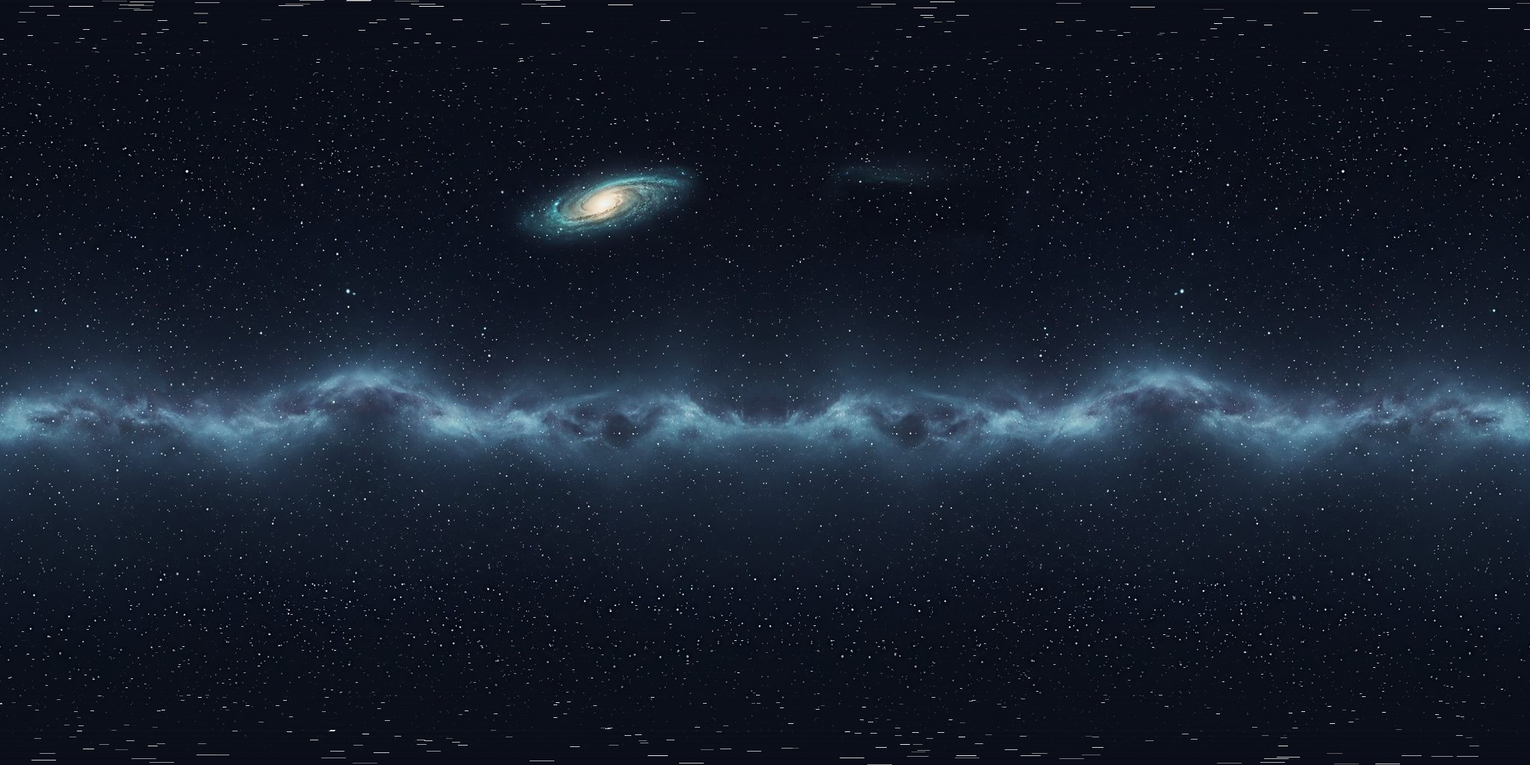
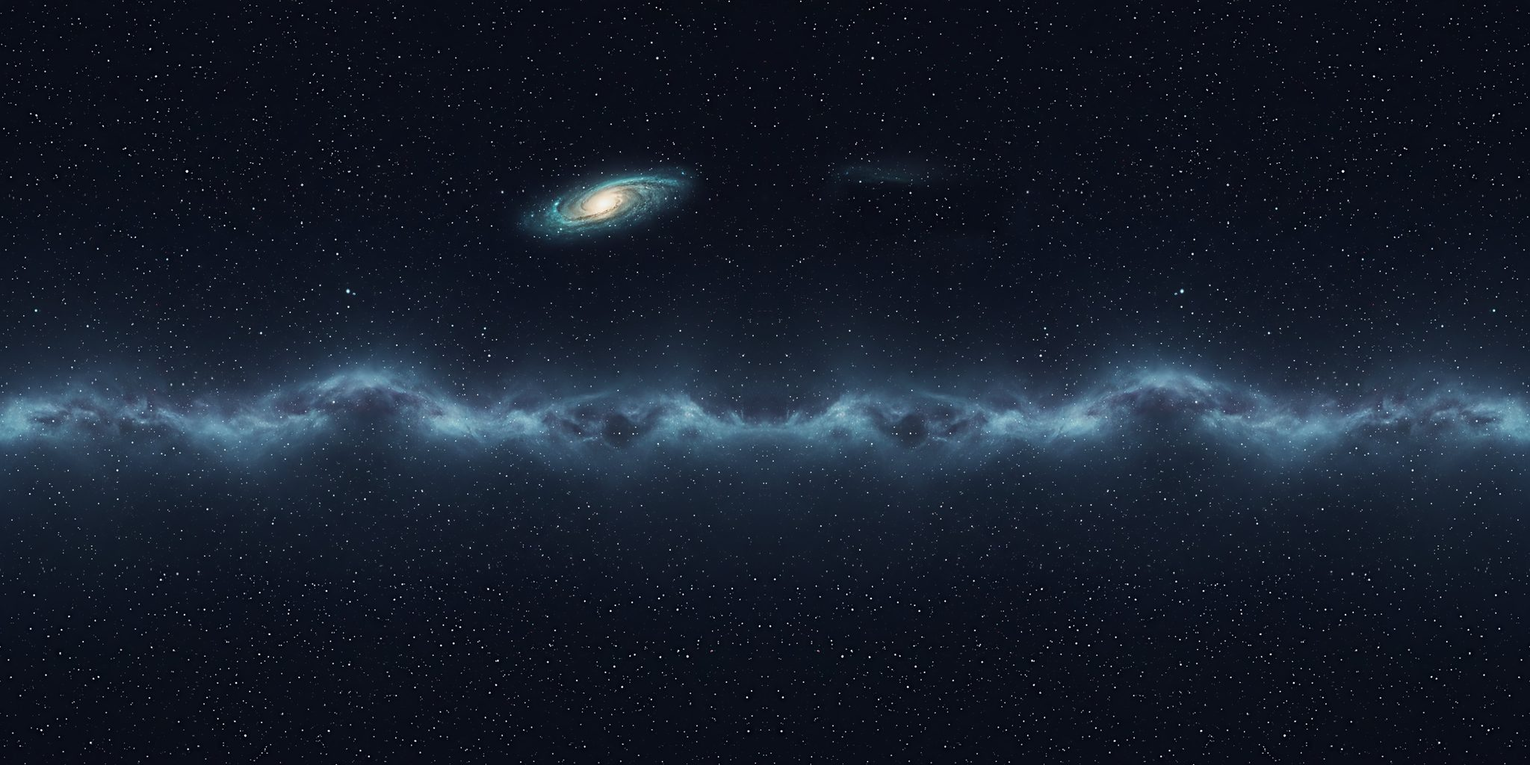
Integrate Codex PR #9: laser impacts, flight-log wording, clean skybox
- Codex's real 33-line change, three-way merged (base e914f48):
  localized laser-hit flare/spark at the impact point
  (novaVfxLaserImpact) instead of a whole-hull flash, plus reworded
  campaign objectives and flight-log headings.
- Its push had converted all three game files to CRLF (~36k changed
  lines), so only the real lines were taken, with LF endings.
- .gitattributes: LF for text files (CRLF for .bat/.cmd/.ps1), binary
  for assets, so a Windows editor can't rewrite whole files again.
  manifest.json, play_on_quest.bat and serve.ps1 were renormalized
  (line endings only).
- sky.jpg: replaced with the clean art/sky_v014_backup.jpg Codex found;
  the old one had streak artifacts at the poles.

Tested: node --check on the module; headless Chromium serving the repo
root and public/ loads every texture with no 404s or errors.

Claude-Session: https://claude.ai/code/session_01Rs5n8yXML6Z8zooWasvHTA

diff --git a/index.html b/index.html
@@ -8902,23 +8902,23 @@ const GAME_VERSION = 'Alpha 1.2';
     // ── CAMPAIGN & STORY: "The Corsair Line" ──
     // ════════════════════════════════════════════════════════════════
     const CAMPAIGN = [
-      { title: 'CH 1: FIRST LIGHT', mission: 1, objective: 'Mine 5 tons of titanium ore.', hint: 'Fire lasers at the gray asteroids around you.',
+      { title: 'CH 1: FIRST LIGHT', mission: 1, objective: 'Prospect the local field: bring in 5 t of titanium.', hint: 'The gray asteroids read titanium-rich. Open fire to sample the field.',
         type: 'mine', goal: 5, reward: 1500, speaker: 'STATION NOVA-1', pitch: 0.95,
         intro: 'Welcome to Nova-1, pilot. Every fighter here earns its fuel. Mine five tons of titanium from the field.',
         outro: 'Ore received. Not bad for a rookie. Stand by for convoy duty.' },
-      { title: 'CH 2: IRON CONVOY', mission: 0, objective: 'Fly escort within 300 m of Starlifter-7 for 45 seconds.', hint: 'Follow the freighter marker on the canopy compass.',
+      { title: 'CH 2: IRON CONVOY', mission: 0, objective: 'Hold within 300 m of Starlifter-7 for 45 seconds.', hint: 'Keep the freighter on your canopy compass and stay close.',
         type: 'escort', goal: 45, reward: 2500, speaker: 'STARLIFTER-7', pitch: 0.9,
         intro: 'Nova Lead, this is Bo Harlan on Starlifter-7. Somebody has been shadowing my route. Could use an escort.',
         outro: 'Convoy clear. Thanks, Nova. But my scanners caught a pirate transponder. Talk to Valkyrie.' },
-      { title: 'CH 3: SHADOW SIGNAL', mission: 0, objective: 'Dock at Station Nova-1 to debrief.', hint: 'Fly close to the station and press DOCK on comms, or engage autopilot.',
+      { title: 'CH 3: SHADOW SIGNAL', mission: 0, objective: 'Return to Nova-1 and dock for the transponder debrief.', hint: 'Request docking clearance on comms, or engage autopilot near the station.',
         type: 'dock', goal: 1, reward: 1000, speaker: 'VALKYRIE-7', pitch: 1.15,
         intro: 'That transponder belongs to the Corsair, Nova. We need a full briefing. Head to Nova-1 and dock.',
         outro: 'Intel confirmed: the Corsair raids ships that exit lightspeed. Next time you jump, be ready.' },
-      { title: 'CH 4: THE CORSAIR LINE', mission: 2, objective: 'Make a lightspeed jump and destroy the Corsair raider.', hint: 'Press WARP, pick a destination, then press NEXT TARGET until the red contact is locked.',
+      { title: 'CH 4: THE CORSAIR LINE', mission: 2, objective: 'Jump the lane. Find and destroy the Corsair raider.', hint: 'Plot a WARP destination, then cycle contacts until the hostile is locked.',
         type: 'pirate', goal: 1, reward: 8000, speaker: 'FLEET RELAY', pitch: 1.3,
         intro: 'ADA-9 here. Corsair ambush probability after your next lightspeed exit: 100 percent. Arm missiles.',
         outro: 'Corsair destroyed. The shipping lanes are open again. Well flown, Nova Lead.' },
-      { title: 'EPILOGUE: OPEN SKIES', mission: 1, objective: 'Free flight. Mine, trade, explore and chat with your crew.', hint: 'Pirates are rare now, but stay sharp after jumps.',
+      { title: 'EPILOGUE: OPEN SKIES', mission: 1, objective: 'Open flight: mine, trade, explore, and fly with your crew.', hint: 'The lanes are quieter. Keep a watch after every jump.',
         type: 'free', goal: 0, reward: 0, speaker: 'VALKYRIE-7', pitch: 1.15,
         intro: 'The sector is ours, Nova. Drinks at the cantina are on me.', outro: '' }
     ];
@@ -9878,11 +9878,11 @@ const GAME_VERSION = 'Alpha 1.2';
       g.fillStyle = '#ffcc00'; g.font = 'bold 26px monospace'; g.fillText(`LEVEL ${L}  \u00B7  XP ${novaXP}/${nx}`, 560, 46);
       g.fillStyle = '#cfefff'; g.font = '22px monospace';
       g.fillText(`${novaPilot.name} \u00B7 ${novaRank()} \u00B7 ${novaShipDef().short} \u00B7 ${bankCredits} CR \u00B7 KILLS ${novaPilot.kills} \u00B7 ORE ${novaPilot.ore}t \u00B7 MISSILES ${missileAmmo}/${novaMslCap()}`.slice(0, 84), 28, 80);
-      g.fillStyle = '#ff88cc'; g.font = 'bold 22px monospace'; g.fillText('FRIENDS \u2665', 28, 116);
+      g.fillStyle = '#ff88cc'; g.font = 'bold 22px monospace'; g.fillText('CREW & CONTACTS', 28, 116);
       const bar = (x, y, v, col) => { g.fillStyle = '#1a2a3a'; g.fillRect(x, y - 14, 180, 14); g.fillStyle = col; g.fillRect(x, y - 14, 1.8 * v, 14); };
       Object.keys(novaAff).forEach((k, i) => { const y = 142 + i * 26; g.fillStyle = '#cfefff'; g.font = '20px monospace'; g.fillText(`${NOVA_AFF_NAMES[k]}`.slice(0, 16), 28, y); bar(240, y, novaAff[k], '#ff88cc'); g.fillText(String(novaAff[k]), 430, y); });
       { const y = 142 + 5 * 26; g.fillStyle = '#ff6666'; g.font = '20px monospace'; g.fillText('PIRATE STANDING', 28, y); bar(240, y, novaPirRep, '#ff3344'); g.fillText(String(novaPirRep), 430, y); }
-      g.fillStyle = '#ffcc00'; g.font = 'bold 22px monospace'; g.fillText('STORY \u00B7 THE CORSAIR LINE', 500, 116);
+      g.fillStyle = '#ffcc00'; g.font = 'bold 22px monospace'; g.fillText('FLIGHT RECORD \u00B7 CORSAIR LINE', 500, 116);
       g.font = '20px monospace';
       CAMPAIGN.forEach((ch, i) => {
         const done = i < campaignChapter, cur = i === campaignChapter;
@@ -9895,7 +9895,7 @@ const GAME_VERSION = 'Alpha 1.2';
       if (cur) { g.fillText(`OBJECTIVE: ${cur.objective}`.slice(0, 92), 28, 318); g.fillText(`HINT: ${cur.hint}`.slice(0, 92), 28, 344); }
       g.fillStyle = '#ffaa00'; g.font = 'bold 22px monospace'; g.fillText('CONTRACT', 28, 384);
       g.font = '20px monospace'; g.fillStyle = '#ffe0a0';
-      g.fillText(novaContract ? `${novaContract.title} \u00B7 ${Math.floor(novaContract.prog)}/${novaContract.goal} \u00B7 pays ${novaContract.pay} CR` : 'None. Pick one from the cantina CONTRACT BOARD or accept a comms offer.', 160, 384);
+       g.fillText(novaContract ? `${novaContract.title} \u00B7 ${Math.floor(novaContract.prog)}/${novaContract.goal} \u00B7 pays ${novaContract.pay} CR` : 'No active contract. Check the cantina board or await a comms offer.', 160, 384);
       if (novaMayday) { g.fillStyle = '#ff3344'; g.fillText(`MAYDAY: reach Starlifter-7 in ${Math.ceil(novaMayday.t)} s`, 160, 410); }
       g.fillStyle = '#ffee88'; g.font = 'bold 22px monospace'; g.fillText('CODE OF THE NOVA', 28, 446);
       g.font = '20px monospace';
@@ -18207,6 +18207,18 @@ const GAME_VERSION = 'Alpha 1.2';
       };
     }
 
+    // Small surface flash for a laser strike; the shield shell below remains the broader hit cue.
+    function novaVfxLaserImpact(u, col, shielded) {
+      if (!u || !u.g) return;
+      const r = Math.max(3, u.r || 5);
+      const phase = (NF.t || 0) * 17.13 + (u.hp || 0) * 0.37;
+      const normal = new THREE.Vector3(Math.sin(phase), Math.cos(phase * 1.31), Math.sin(phase * 0.73 + 1.7)).normalize();
+      const point = u.g.position.clone().addScaledVector(normal, r * 0.94);
+      const size = Math.min(6, r * (shielded ? 0.42 : 0.62));
+      novaVfxFlare(point, col, size, 0.16);
+      novaVfxArc(point, col, size * 1.35, 0.13);
+    }
+
     // Upgrade shield hit ripple on faction ships & player cockpit shield dome
     {
       const _origNfHit = nfHit;
@@ -18214,6 +18226,7 @@ const GAME_VERSION = 'Alpha 1.2';
         if (u && u.alive && u.g) {
           const hadShield = u.sh > 0;
           const col = u.fac === 'alien' ? 0x66ffcc : (u.fac === 'pirate' ? 0xffaa33 : 0x55aaff);
+          novaVfxLaserImpact(u, byPlayer ? 0x00e5ff : col, hadShield);
           if (hadShield && NOVA_VFX.tex.shield) {
             const shMat = new THREE.MeshBasicMaterial({
               map: NOVA_VFX.tex.shield,
@@ -18241,9 +18254,7 @@ const GAME_VERSION = 'Alpha 1.2';
                 shMat.opacity = 0.85 * (1 - k);
               }
             });
-          } else {
-            novaVfxFlare(u.g.position, 0xff8833, Math.max(4, (u.r || 5) * 0.9), 0.24);
-          }
+          } else { /* the localized laser impact above replaces the broad hull flash */ }
           _origNfHit.apply(this, arguments);
           if (hadShield && u.sh <= 0 && u.alive) {
             novaVfxArc(u.g.position, col, Math.max(7, (u.r || 6) * 1.6), 0.45);

diff --git a/public/standalone.html b/public/standalone.html
@@ -8911,23 +8911,23 @@ const GAME_VERSION = 'Alpha 1.2';
     // ── CAMPAIGN & STORY: "The Corsair Line" ──
     // ════════════════════════════════════════════════════════════════
     const CAMPAIGN = [
-      { title: 'CH 1: FIRST LIGHT', mission: 1, objective: 'Mine 5 tons of titanium ore.', hint: 'Fire lasers at the gray asteroids around you.',
+      { title: 'CH 1: FIRST LIGHT', mission: 1, objective: 'Prospect the local field: bring in 5 t of titanium.', hint: 'The gray asteroids read titanium-rich. Open fire to sample the field.',
         type: 'mine', goal: 5, reward: 1500, speaker: 'STATION NOVA-1', pitch: 0.95,
         intro: 'Welcome to Nova-1, pilot. Every fighter here earns its fuel. Mine five tons of titanium from the field.',
         outro: 'Ore received. Not bad for a rookie. Stand by for convoy duty.' },
-      { title: 'CH 2: IRON CONVOY', mission: 0, objective: 'Fly escort within 300 m of Starlifter-7 for 45 seconds.', hint: 'Follow the freighter marker on the canopy compass.',
+      { title: 'CH 2: IRON CONVOY', mission: 0, objective: 'Hold within 300 m of Starlifter-7 for 45 seconds.', hint: 'Keep the freighter on your canopy compass and stay close.',
         type: 'escort', goal: 45, reward: 2500, speaker: 'STARLIFTER-7', pitch: 0.9,
         intro: 'Nova Lead, this is Bo Harlan on Starlifter-7. Somebody has been shadowing my route. Could use an escort.',
         outro: 'Convoy clear. Thanks, Nova. But my scanners caught a pirate transponder. Talk to Valkyrie.' },
-      { title: 'CH 3: SHADOW SIGNAL', mission: 0, objective: 'Dock at Station Nova-1 to debrief.', hint: 'Fly close to the station and press DOCK on comms, or engage autopilot.',
+      { title: 'CH 3: SHADOW SIGNAL', mission: 0, objective: 'Return to Nova-1 and dock for the transponder debrief.', hint: 'Request docking clearance on comms, or engage autopilot near the station.',
         type: 'dock', goal: 1, reward: 1000, speaker: 'VALKYRIE-7', pitch: 1.15,
         intro: 'That transponder belongs to the Corsair, Nova. We need a full briefing. Head to Nova-1 and dock.',
         outro: 'Intel confirmed: the Corsair raids ships that exit lightspeed. Next time you jump, be ready.' },
-      { title: 'CH 4: THE CORSAIR LINE', mission: 2, objective: 'Make a lightspeed jump and destroy the Corsair raider.', hint: 'Press WARP, pick a destination, then press NEXT TARGET until the red contact is locked.',
+      { title: 'CH 4: THE CORSAIR LINE', mission: 2, objective: 'Jump the lane. Find and destroy the Corsair raider.', hint: 'Plot a WARP destination, then cycle contacts until the hostile is locked.',
         type: 'pirate', goal: 1, reward: 8000, speaker: 'FLEET RELAY', pitch: 1.3,
         intro: 'ADA-9 here. Corsair ambush probability after your next lightspeed exit: 100 percent. Arm missiles.',
         outro: 'Corsair destroyed. The shipping lanes are open again. Well flown, Nova Lead.' },
-      { title: 'EPILOGUE: OPEN SKIES', mission: 1, objective: 'Free flight. Mine, trade, explore and chat with your crew.', hint: 'Pirates are rare now, but stay sharp after jumps.',
+      { title: 'EPILOGUE: OPEN SKIES', mission: 1, objective: 'Open flight: mine, trade, explore, and fly with your crew.', hint: 'The lanes are quieter. Keep a watch after every jump.',
         type: 'free', goal: 0, reward: 0, speaker: 'VALKYRIE-7', pitch: 1.15,
         intro: 'The sector is ours, Nova. Drinks at the cantina are on me.', outro: '' }
     ];
@@ -9887,11 +9887,11 @@ const GAME_VERSION = 'Alpha 1.2';
       g.fillStyle = '#ffcc00'; g.font = 'bold 26px monospace'; g.fillText(`LEVEL ${L}  \u00B7  XP ${novaXP}/${nx}`, 560, 46);
       g.fillStyle = '#cfefff'; g.font = '22px monospace';
       g.fillText(`${novaPilot.name} \u00B7 ${novaRank()} \u00B7 ${novaShipDef().short} \u00B7 ${bankCredits} CR \u00B7 KILLS ${novaPilot.kills} \u00B7 ORE ${novaPilot.ore}t \u00B7 MISSILES ${missileAmmo}/${novaMslCap()}`.slice(0, 84), 28, 80);
-      g.fillStyle = '#ff88cc'; g.font = 'bold 22px monospace'; g.fillText('FRIENDS \u2665', 28, 116);
+      g.fillStyle = '#ff88cc'; g.font = 'bold 22px monospace'; g.fillText('CREW & CONTACTS', 28, 116);
       const bar = (x, y, v, col) => { g.fillStyle = '#1a2a3a'; g.fillRect(x, y - 14, 180, 14); g.fillStyle = col; g.fillRect(x, y - 14, 1.8 * v, 14); };
       Object.keys(novaAff).forEach((k, i) => { const y = 142 + i * 26; g.fillStyle = '#cfefff'; g.font = '20px monospace'; g.fillText(`${NOVA_AFF_NAMES[k]}`.slice(0, 16), 28, y); bar(240, y, novaAff[k], '#ff88cc'); g.fillText(String(novaAff[k]), 430, y); });
       { const y = 142 + 5 * 26; g.fillStyle = '#ff6666'; g.font = '20px monospace'; g.fillText('PIRATE STANDING', 28, y); bar(240, y, novaPirRep, '#ff3344'); g.fillText(String(novaPirRep), 430, y); }
-      g.fillStyle = '#ffcc00'; g.font = 'bold 22px monospace'; g.fillText('STORY \u00B7 THE CORSAIR LINE', 500, 116);
+      g.fillStyle = '#ffcc00'; g.font = 'bold 22px monospace'; g.fillText('FLIGHT RECORD \u00B7 CORSAIR LINE', 500, 116);
       g.font = '20px monospace';
       CAMPAIGN.forEach((ch, i) => {
         const done = i < campaignChapter, cur = i === campaignChapter;
@@ -9904,7 +9904,7 @@ const GAME_VERSION = 'Alpha 1.2';
       if (cur) { g.fillText(`OBJECTIVE: ${cur.objective}`.slice(0, 92), 28, 318); g.fillText(`HINT: ${cur.hint}`.slice(0, 92), 28, 344); }
       g.fillStyle = '#ffaa00'; g.font = 'bold 22px monospace'; g.fillText('CONTRACT', 28, 384);
       g.font = '20px monospace'; g.fillStyle = '#ffe0a0';
-      g.fillText(novaContract ? `${novaContract.title} \u00B7 ${Math.floor(novaContract.prog)}/${novaContract.goal} \u00B7 pays ${novaContract.pay} CR` : 'None. Pick one from the cantina CONTRACT BOARD or accept a comms offer.', 160, 384);
+       g.fillText(novaContract ? `${novaContract.title} \u00B7 ${Math.floor(novaContract.prog)}/${novaContract.goal} \u00B7 pays ${novaContract.pay} CR` : 'No active contract. Check the cantina board or await a comms offer.', 160, 384);
       if (novaMayday) { g.fillStyle = '#ff3344'; g.fillText(`MAYDAY: reach Starlifter-7 in ${Math.ceil(novaMayday.t)} s`, 160, 410); }
       g.fillStyle = '#ffee88'; g.font = 'bold 22px monospace'; g.fillText('CODE OF THE NOVA', 28, 446);
       g.font = '20px monospace';
@@ -18216,6 +18216,18 @@ const GAME_VERSION = 'Alpha 1.2';
       };
     }
 
+    // Small surface flash for a laser strike; the shield shell below remains the broader hit cue.
+    function novaVfxLaserImpact(u, col, shielded) {
+      if (!u || !u.g) return;
+      const r = Math.max(3, u.r || 5);
+      const phase = (NF.t || 0) * 17.13 + (u.hp || 0) * 0.37;
+      const normal = new THREE.Vector3(Math.sin(phase), Math.cos(phase * 1.31), Math.sin(phase * 0.73 + 1.7)).normalize();
+      const point = u.g.position.clone().addScaledVector(normal, r * 0.94);
+      const size = Math.min(6, r * (shielded ? 0.42 : 0.62));
+      novaVfxFlare(point, col, size, 0.16);
+      novaVfxArc(point, col, size * 1.35, 0.13);
+    }
+
     // Upgrade shield hit ripple on faction ships & player cockpit shield dome
     {
       const _origNfHit = nfHit;
@@ -18223,6 +18235,7 @@ const GAME_VERSION = 'Alpha 1.2';
         if (u && u.alive && u.g) {
           const hadShield = u.sh > 0;
           const col = u.fac === 'alien' ? 0x66ffcc : (u.fac === 'pirate' ? 0xffaa33 : 0x55aaff);
+          novaVfxLaserImpact(u, byPlayer ? 0x00e5ff : col, hadShield);
           if (hadShield && NOVA_VFX.tex.shield) {
             const shMat = new THREE.MeshBasicMaterial({
               map: NOVA_VFX.tex.shield,
@@ -18250,9 +18263,7 @@ const GAME_VERSION = 'Alpha 1.2';
                 shMat.opacity = 0.85 * (1 - k);
               }
             });
-          } else {
-            novaVfxFlare(u.g.position, 0xff8833, Math.max(4, (u.r || 5) * 0.9), 0.24);
-          }
+          } else { /* the localized laser impact above replaces the broad hull flash */ }
           _origNfHit.apply(this, arguments);
           if (hadShield && u.sh <= 0 && u.alive) {
             novaVfxArc(u.g.position, col, Math.max(7, (u.r || 6) * 1.6), 0.45);

diff --git a/standalone.html b/standalone.html
@@ -8911,23 +8911,23 @@ const GAME_VERSION = 'Alpha 1.2';
     // ── CAMPAIGN & STORY: "The Corsair Line" ──
     // ════════════════════════════════════════════════════════════════
     const CAMPAIGN = [
-      { title: 'CH 1: FIRST LIGHT', mission: 1, objective: 'Mine 5 tons of titanium ore.', hint: 'Fire lasers at the gray asteroids around you.',
+      { title: 'CH 1: FIRST LIGHT', mission: 1, objective: 'Prospect the local field: bring in 5 t of titanium.', hint: 'The gray asteroids read titanium-rich. Open fire to sample the field.',
         type: 'mine', goal: 5, reward: 1500, speaker: 'STATION NOVA-1', pitch: 0.95,
         intro: 'Welcome to Nova-1, pilot. Every fighter here earns its fuel. Mine five tons of titanium from the field.',
         outro: 'Ore received. Not bad for a rookie. Stand by for convoy duty.' },
-      { title: 'CH 2: IRON CONVOY', mission: 0, objective: 'Fly escort within 300 m of Starlifter-7 for 45 seconds.', hint: 'Follow the freighter marker on the canopy compass.',
+      { title: 'CH 2: IRON CONVOY', mission: 0, objective: 'Hold within 300 m of Starlifter-7 for 45 seconds.', hint: 'Keep the freighter on your canopy compass and stay close.',
         type: 'escort', goal: 45, reward: 2500, speaker: 'STARLIFTER-7', pitch: 0.9,
         intro: 'Nova Lead, this is Bo Harlan on Starlifter-7. Somebody has been shadowing my route. Could use an escort.',
         outro: 'Convoy clear. Thanks, Nova. But my scanners caught a pirate transponder. Talk to Valkyrie.' },
-      { title: 'CH 3: SHADOW SIGNAL', mission: 0, objective: 'Dock at Station Nova-1 to debrief.', hint: 'Fly close to the station and press DOCK on comms, or engage autopilot.',
+      { title: 'CH 3: SHADOW SIGNAL', mission: 0, objective: 'Return to Nova-1 and dock for the transponder debrief.', hint: 'Request docking clearance on comms, or engage autopilot near the station.',
         type: 'dock', goal: 1, reward: 1000, speaker: 'VALKYRIE-7', pitch: 1.15,
         intro: 'That transponder belongs to the Corsair, Nova. We need a full briefing. Head to Nova-1 and dock.',
         outro: 'Intel confirmed: the Corsair raids ships that exit lightspeed. Next time you jump, be ready.' },
-      { title: 'CH 4: THE CORSAIR LINE', mission: 2, objective: 'Make a lightspeed jump and destroy the Corsair raider.', hint: 'Press WARP, pick a destination, then press NEXT TARGET until the red contact is locked.',
+      { title: 'CH 4: THE CORSAIR LINE', mission: 2, objective: 'Jump the lane. Find and destroy the Corsair raider.', hint: 'Plot a WARP destination, then cycle contacts until the hostile is locked.',
         type: 'pirate', goal: 1, reward: 8000, speaker: 'FLEET RELAY', pitch: 1.3,
         intro: 'ADA-9 here. Corsair ambush probability after your next lightspeed exit: 100 percent. Arm missiles.',
         outro: 'Corsair destroyed. The shipping lanes are open again. Well flown, Nova Lead.' },
-      { title: 'EPILOGUE: OPEN SKIES', mission: 1, objective: 'Free flight. Mine, trade, explore and chat with your crew.', hint: 'Pirates are rare now, but stay sharp after jumps.',
+      { title: 'EPILOGUE: OPEN SKIES', mission: 1, objective: 'Open flight: mine, trade, explore, and fly with your crew.', hint: 'The lanes are quieter. Keep a watch after every jump.',
         type: 'free', goal: 0, reward: 0, speaker: 'VALKYRIE-7', pitch: 1.15,
         intro: 'The sector is ours, Nova. Drinks at the cantina are on me.', outro: '' }
     ];
@@ -9887,11 +9887,11 @@ const GAME_VERSION = 'Alpha 1.2';
       g.fillStyle = '#ffcc00'; g.font = 'bold 26px monospace'; g.fillText(`LEVEL ${L}  \u00B7  XP ${novaXP}/${nx}`, 560, 46);
       g.fillStyle = '#cfefff'; g.font = '22px monospace';
       g.fillText(`${novaPilot.name} \u00B7 ${novaRank()} \u00B7 ${novaShipDef().short} \u00B7 ${bankCredits} CR \u00B7 KILLS ${novaPilot.kills} \u00B7 ORE ${novaPilot.ore}t \u00B7 MISSILES ${missileAmmo}/${novaMslCap()}`.slice(0, 84), 28, 80);
-      g.fillStyle = '#ff88cc'; g.font = 'bold 22px monospace'; g.fillText('FRIENDS \u2665', 28, 116);
+      g.fillStyle = '#ff88cc'; g.font = 'bold 22px monospace'; g.fillText('CREW & CONTACTS', 28, 116);
       const bar = (x, y, v, col) => { g.fillStyle = '#1a2a3a'; g.fillRect(x, y - 14, 180, 14); g.fillStyle = col; g.fillRect(x, y - 14, 1.8 * v, 14); };
       Object.keys(novaAff).forEach((k, i) => { const y = 142 + i * 26; g.fillStyle = '#cfefff'; g.font = '20px monospace'; g.fillText(`${NOVA_AFF_NAMES[k]}`.slice(0, 16), 28, y); bar(240, y, novaAff[k], '#ff88cc'); g.fillText(String(novaAff[k]), 430, y); });
       { const y = 142 + 5 * 26; g.fillStyle = '#ff6666'; g.font = '20px monospace'; g.fillText('PIRATE STANDING', 28, y); bar(240, y, novaPirRep, '#ff3344'); g.fillText(String(novaPirRep), 430, y); }
-      g.fillStyle = '#ffcc00'; g.font = 'bold 22px monospace'; g.fillText('STORY \u00B7 THE CORSAIR LINE', 500, 116);
+      g.fillStyle = '#ffcc00'; g.font = 'bold 22px monospace'; g.fillText('FLIGHT RECORD \u00B7 CORSAIR LINE', 500, 116);
       g.font = '20px monospace';
       CAMPAIGN.forEach((ch, i) => {
         const done = i < campaignChapter, cur = i === campaignChapter;
@@ -9904,7 +9904,7 @@ const GAME_VERSION = 'Alpha 1.2';
       if (cur) { g.fillText(`OBJECTIVE: ${cur.objective}`.slice(0, 92), 28, 318); g.fillText(`HINT: ${cur.hint}`.slice(0, 92), 28, 344); }
       g.fillStyle = '#ffaa00'; g.font = 'bold 22px monospace'; g.fillText('CONTRACT', 28, 384);
       g.font = '20px monospace'; g.fillStyle = '#ffe0a0';
-      g.fillText(novaContract ? `${novaContract.title} \u00B7 ${Math.floor(novaContract.prog)}/${novaContract.goal} \u00B7 pays ${novaContract.pay} CR` : 'None. Pick one from the cantina CONTRACT BOARD or accept a comms offer.', 160, 384);
+       g.fillText(novaContract ? `${novaContract.title} \u00B7 ${Math.floor(novaContract.prog)}/${novaContract.goal} \u00B7 pays ${novaContract.pay} CR` : 'No active contract. Check the cantina board or await a comms offer.', 160, 384);
       if (novaMayday) { g.fillStyle = '#ff3344'; g.fillText(`MAYDAY: reach Starlifter-7 in ${Math.ceil(novaMayday.t)} s`, 160, 410); }
       g.fillStyle = '#ffee88'; g.font = 'bold 22px monospace'; g.fillText('CODE OF THE NOVA', 28, 446);
       g.font = '20px monospace';
@@ -18216,6 +18216,18 @@ const GAME_VERSION = 'Alpha 1.2';
       };
     }
 
+    // Small surface flash for a laser strike; the shield shell below remains the broader hit cue.
+    function novaVfxLaserImpact(u, col, shielded) {
+      if (!u || !u.g) return;
+      const r = Math.max(3, u.r || 5);
+      const phase = (NF.t || 0) * 17.13 + (u.hp || 0) * 0.37;
+      const normal = new THREE.Vector3(Math.sin(phase), Math.cos(phase * 1.31), Math.sin(phase * 0.73 + 1.7)).normalize();
+      const point = u.g.position.clone().addScaledVector(normal, r * 0.94);
+      const size = Math.min(6, r * (shielded ? 0.42 : 0.62));
+      novaVfxFlare(point, col, size, 0.16);
+      novaVfxArc(point, col, size * 1.35, 0.13);
+    }
+
     // Upgrade shield hit ripple on faction ships & player cockpit shield dome
     {
       const _origNfHit = nfHit;
@@ -18223,6 +18235,7 @@ const GAME_VERSION = 'Alpha 1.2';
         if (u && u.alive && u.g) {
           const hadShield = u.sh > 0;
           const col = u.fac === 'alien' ? 0x66ffcc : (u.fac === 'pirate' ? 0xffaa33 : 0x55aaff);
+          novaVfxLaserImpact(u, byPlayer ? 0x00e5ff : col, hadShield);
           if (hadShield && NOVA_VFX.tex.shield) {
             const shMat = new THREE.MeshBasicMaterial({
               map: NOVA_VFX.tex.shield,
@@ -18250,9 +18263,7 @@ const GAME_VERSION = 'Alpha 1.2';
                 shMat.opacity = 0.85 * (1 - k);
               }
             });
-          } else {
-            novaVfxFlare(u.g.position, 0xff8833, Math.max(4, (u.r || 5) * 0.9), 0.24);
-          }
+          } else { /* the localized laser impact above replaces the broad hull flash */ }
           _origNfHit.apply(this, arguments);
           if (hadShield && u.sh <= 0 && u.alive) {
             novaVfxArc(u.g.position, col, Math.max(7, (u.r || 6) * 1.6), 0.45);

diff --git a/AI_STATUS.md b/AI_STATUS.md
@@ -30,6 +30,7 @@ Several AIs may hold claims at once, as long as their files don't overlap. Add a
 
 Newest first. Keep each entry short: what changed, the PR, checks run, and the next step.
 
+- **Codex + Claude: laser impacts, flight-log wording, clean skybox** (PR #9 integrated into `claude/alpha-1.2`). Codex added localized laser-hit flares and sparks (`novaVfxLaserImpact`) and reworded campaign objectives and flight-log headings, and found the pole-seam streaks in `sky.jpg`. Its push converted all three game files to CRLF (about 36k changed lines for a 33-line change), so Claude merged only the real lines with LF endings, swapped in the clean `art/sky_v014_backup.jpg` as `sky.jpg`, and added `.gitattributes` to keep LF from now on. Checks: three-way merge without conflicts; headless Chromium.
 - **Claude: Gemini VFX pack** (branch `claude/alpha-1.2`). Seven Gemini source images (`art_src/gemini/`: fireball, smoke, sparks, laser, muzzle, engine, warp) built into game textures by `tools/vfx_build.py`. In game: a 2048 px 8×8 explosion (fireball → smoke) and grayscale laser, flare and spark. Delivered but not wired yet: small hit burst, muzzle sheet, engine glow, warp streaks. `vfx_cut.py` now only makes lightning and the legacy shield cell. Checks: headless Chromium from the repo root and `public/` (all textures load, rendered in front of the camera, explosions run, no 404s or errors).
 - **Google AI Studio + Claude: side panel layouts** (branch `claude/alpha-1.2`). AI Studio ran out of usage, so the owner uploaded its `standalone.html`. It was based on 642938b and changed only the panel/UI code (`np*` panels, gestures, keyboard `novaKb*`, `novaChoice*`). Claude three-way merged it onto the shield branch with no conflicts, kept all later fixes (VFX, fx/, shield hex, gamepad), restored the import map, and set the version to Alpha 1.2 (cache `nova-alpha-1.2`). Checks: `node --check`; headless Chromium shows the side panels, with no 404s or errors.
 - **Claude: Gemini shield texture** (branch `claude/shield-hex`). First asset generated through the Gemini API (`gemini-3.1-flash-image`): a seamless 1024 px hex shield, stored grayscale (387 KB) in `public/fx/` and `fx/`. It replaces the 128 px hex on the shield dome, shield hits and drone rings; offline cache bumped to `nova-alpha-1.1b`. Only the NOVA_VFX texture map and shield repeat lines changed. Checks: headless Chromium (loads at 1024², no 404s or errors, rendered on a dome).
